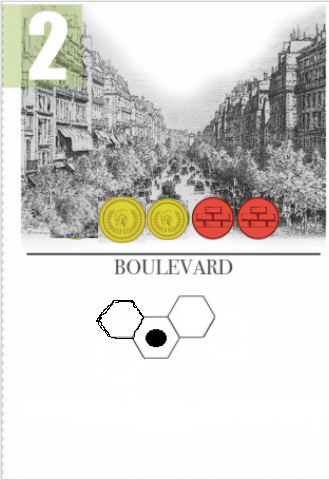
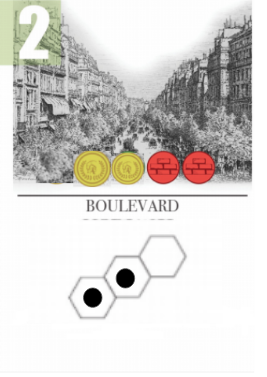
tourny time

diff --git a/server/startingStateGeneration.js b/server/startingStateGeneration.js
@@ -16,13 +16,12 @@
 
       //infrastructure
       [ 
-      {'name': 'Tunnel',          'type': 'Infrastructure',               'bm': 1, 'c': 1, 'l': 3, '?': 0, 'limit': 5, 'vp': 3, 'beginner': false},
-      {'name': 'Prison',          'type': 'Infrastructure',               'bm': 0, 'c': 2, 'l': 2, '?': 0, 'limit': 5, 'vp': 2, 'beginner': false},
-      {'name': 'Tramway',         'type': 'Infrastructure',               'bm': 3, 'c': 0, 'l': 0, '?': 0, 'limit': 5, 'vp': 3, 'beginner': false},
-      {'name': 'Foundry',         'type': 'Infrastructure',               'bm': 0, 'c': 0, 'l': 3, '?': 0, 'limit': 5, 'vp': 1, 'beginner': false},
+      // {'name': 'Tunnel',          'type': 'Infrastructure',               'bm': 1, 'c': 1, 'l': 3, '?': 0, 'limit': 5, 'vp': 3, 'beginner': false},
+      // {'name': 'Prison',          'type': 'Infrastructure',               'bm': 0, 'c': 2, 'l': 2, '?': 0, 'limit': 5, 'vp': 2, 'beginner': false},
+      // {'name': 'Tramway',         'type': 'Infrastructure',               'bm': 3, 'c': 0, 'l': 0, '?': 0, 'limit': 5, 'vp': 3, 'beginner': false},
+      // {'name': 'Foundry',         'type': 'Infrastructure',               'bm': 0, 'c': 0, 'l': 3, '?': 0, 'limit': 5, 'vp': 1, 'beginner': false},
       {'name': 'Landfill',        'type': 'Infrastructure',               'bm': 2, 'c': 1, 'l': 1, '?': 0, 'limit': 5, 'vp': 2, 'beginner': false},
-
-      // {'name': 'Boulevard',       'type': 'Infrastructure',               'bm': 2, 'c': 2, 'l': 0, '?': 0, 'limit': 5, 'vp': 2, 'beginner': false},
+      {'name': 'Boulevard',       'type': 'Infrastructure',               'bm': 2, 'c': 2, 'l': 0, '?': 0, 'limit': 5, 'vp': 2, 'beginner': false},
       
       // {'name': 'Watchtower',      'type': 'Infrastructure',               'bm': 0, 'c': 2, 'l': 3, '?': 0, 'limit': 5, 'vp': 3, 'beginner': false},
       // {'name': 'WatchtowerBOnly', 'type': 'Infrastructure',               'bm': 0, 'c': 2, 'l': 2, '?': 0, 'limit': 5, 'vp': 2, 'beginner': false},
@@ -70,7 +69,7 @@
       {'name': 'Rue de Rivoli',             'type': 'NewCultural',   'bm': 3, 'c': 2, 'l': 1, '?': 0, 'limit': 1, 'vp': 6, 'beginner': false},  
       {'name': 'The Embassy',               'type': 'NewCultural',   'bm': 1, 'c': 2, 'l': 2, '?': 0, 'limit': 1, 'vp': 0, 'beginner': true},  
       {'name': 'Tour Eiffel',               'type': 'NewCultural',   'bm': 1, 'c': 1, 'l': 1, '?': 0, 'limit': 1, 'vp': 5, 'beginner': true},
-      {'name': 'Bois de Vincennes',         'type': 'NewCultural',   'bm': 2, 'c': 1, 'l': 3, '?': 0, 'limit': 1, 'vp': 0, 'beginner': false},
+      {'name': 'Bois de Vincennes',         'type': 'NewCultural',   'bm': 3, 'c': 1, 'l': 2, '?': 0, 'limit': 1, 'vp': 0, 'beginner': false},
       {'name': 'Musee du Louvre',           'type': 'NewCultural',   'bm': 2, 'c': 3, 'l': 1, '?': 0, 'limit': 1, 'vp': 0, 'beginner': false},
       {'name': 'Guild Hall',                'type': 'NewCultural',   'bm': 2, 'c': 2, 'l': 2, '?': 0, 'limit': 1, 'vp': 0, 'beginner': false},
       {'name': 'Opera Garnier',            'type': 'NewCultural',   'bm': 1, 'c': 2, 'l': 2, '?': 0, 'limit': 1, 'vp': 2, 'beginner': false},
@@ -105,8 +104,13 @@
     } else {
       for (i=0; i<5; i++) {
         var x = Math.floor(Math.random() * buildings[i].length)
+        var derp = buildings[i][x].name
         results.push(buildings[i][x])
         buildings[i].splice(x, 1)
+
+        if (derp == 'Boulevard') {
+          results.push({'name': 'Boulevard-Delux', 'type': 'Infrastructure', 'bm': 2, 'c': 2, 'l': 0, '?': 2, 'limit': 5, 'vp': 2, 'beginner': false})
+        }
       }
       for (i=0; i<3; i++) {
         var x = Math.floor(Math.random() * buildings[5].length)

diff --git a/client/buildingValidation.js b/client/buildingValidation.js
@@ -65,8 +65,8 @@ function validateVariableCost(building, variableBuildingCost, casinoSteal, myRes
   }
   
   return myResources.bm >= variableBuildingCost.bm + buildingBMs
-      && myResources.l >= variableBuildingCost.l + buildingCs
-      && myResources.c >= variableBuildingCost.c + buildingLs
+      && myResources.l >= variableBuildingCost.l + buildingLs
+      && myResources.c >= variableBuildingCost.c + buildingCs
       && variableBuildingCost.bm + variableBuildingCost.l + variableBuildingCost.c == (totalBuildingVariableCost - deduction)
 }
 
@@ -332,7 +332,28 @@ function boulevard(coords, move, board, startingPlayer) {
   } else {
     var middleOn = builtOn([middle], move, board, startingPlayer)
     var outerOn = builtOn(outer, move, board, startingPlayer)
-    return middleOn.friendly == 1 && outerOn.empty == 2 && ShapeUtils.checkShapeV(coords)
+    return middleOn.friendly == 1 && outerOn.empty == 1 && outerOn.friendly == 1 && ShapeUtils.checkShape3Line(coords)
+  }
+}
+function boulevard_delux(coords, move, board, startingPlayer) {
+  if (coords.length != 3) {
+    return false
+  } else {
+    var middle
+    var outer
+    for (var i = 0; i < 3; i++) {
+      if (ShapeUtils.adjacent(coords[i], coords[(i+1)%3]) && ShapeUtils.adjacent(coords[i], coords[(i+2)%3])) {
+        middle = coords[i]
+        outer = [coords[(i+1)%3], coords[(i+2)%3]]
+      }
+    }
+  }
+  if (middle == undefined || outer == undefined) {
+    return false
+  } else {
+    var middleOn = builtOn([middle], move, board, startingPlayer)
+    var outerOn = builtOn(outer, move, board, startingPlayer)
+    return middleOn.empty == 1 && outerOn.friendly == 1 && outerOn.empty == 1 && ShapeUtils.checkShape3Line(coords)
   }
 }
 function tunnel(coords, move, board, startingPlayer) {
@@ -432,7 +453,6 @@ function prisonHelperHelper(friendlyPrisonCoords, extraArray, board, move) {
       }
     }
     if (!foundAdjacentMarkerForPrison) {
-      console.log(friendlyPrisonCoords[prisonIndex])
       return false
     }
   }
@@ -780,6 +800,7 @@ function leHavre(coords, move, board, startingPlayer) {
 var buildingData = {
   //infrastructure
   'Boulevard': {'validation_function': boulevard, 'length': 3},
+  'Boulevard-Delux': {'validation_function': boulevard_delux, 'length': 3},
   'Tunnel': {'validation_function': tunnel, 'length': 1},
   'Prison': {'validation_function': prison, 'length': 2},
   'Tramway': {'validation_function': tramway, 'length': 3},

diff --git a/client/index.css b/client/index.css
@@ -258,10 +258,10 @@ svg {
   display: grid;
   
   /* BEGINNER MODE */
-  grid-template-columns: var(--hex-width) var(--hex-width) var(--hex-width) var(--hex-width) var(--hex-width) var(--hex-width) var(--hex-width) var(--hex-width) var(--hex-width);
+  /*grid-template-columns: var(--hex-width) var(--hex-width) var(--hex-width) var(--hex-width) var(--hex-width) var(--hex-width) var(--hex-width) var(--hex-width) var(--hex-width);*/
   
   /* ADVANCED MODE */
-  /*grid-template-columns: var(--hex-width) var(--hex-width) var(--hex-width) var(--hex-width) var(--hex-width) var(--hex-width) var(--hex-width) var(--hex-width) var(--hex-width) var(--hex-width) var(--hex-width) var(--hex-width);*/
+  grid-template-columns: var(--hex-width) var(--hex-width) var(--hex-width) var(--hex-width) var(--hex-width) var(--hex-width) var(--hex-width) var(--hex-width) var(--hex-width) var(--hex-width) var(--hex-width) var(--hex-width);
 
   grid-auto-rows: calc(var(--hex-width) - 28.87px/2);
   grid-gap: var(--hex-between) var(--hex-between);
@@ -269,7 +269,7 @@ svg {
 }
 
 /* BEGINNER MODE */
-.hexagon:nth-child(18n + 10),
+/*.hexagon:nth-child(18n + 10),
 .hexagon:nth-child(18n + 11),
 .hexagon:nth-child(18n + 12),
 .hexagon:nth-child(18n + 13),
@@ -279,11 +279,11 @@ svg {
 .hexagon:nth-child(18n + 17),
 .hexagon:nth-child(18n + 18) {
   margin-left: calc(var(--hex-width) / 2 + var(--hex-between) / 2);
-}
+}*/
 
 
 /* ADVANCED MODE */
-/*
+
 .hexagon:nth-child(24n + 13), 
 .hexagon:nth-child(24n + 14),
 .hexagon:nth-child(24n + 15),
@@ -298,7 +298,7 @@ svg {
 .hexagon:nth-child(24n + 24) {
   margin-left: calc(var(--hex-width) / 2 + var(--hex-between) / 2);
 }
-*/
+
 
 .tooltiptext {
   visibility: hidden;

diff --git a/client/index.js b/client/index.js
@@ -327,6 +327,7 @@ function onClickShopRow(row) {
           buildingName == "Refinery" ||
           buildingName == "Bazaar" ||
           buildingName == "Housing Shack" ||
+          buildingName == "Boulevard-Delux" ||
           buildingName == "Loan Office") {
         document.getElementById('money_form_input').style.display = "block"
         if (buildingName == "Casino" || buildingName == "Loan Office") {

diff --git a/server/moveProcessor.js b/server/moveProcessor.js
@@ -285,6 +285,7 @@
       deduction += numNextTo.numAdjacentEnemyBuildings
       deduction += numNextTo.numAdjacentFriendlyBuildings
     }
+ 
     return player_resources.bm >= variable_cost.bm + shop_item['bm']
         && player_resources.l >= variable_cost.l + shop_item['l']
         && player_resources.c >= variable_cost.c + shop_item['c']

diff --git a/app.js b/app.js
@@ -17,7 +17,7 @@ var MoveProcessor = require('./server/moveProcessor')
 var ACTIVE_PLAYER_INDEX = 0
 var PLAYER_IDS = []
 
-var beginner_mode = true
+var beginner_mode = false
 
 
 var startState = startingStateGeneration.generateBoard(20, beginner_mode)
